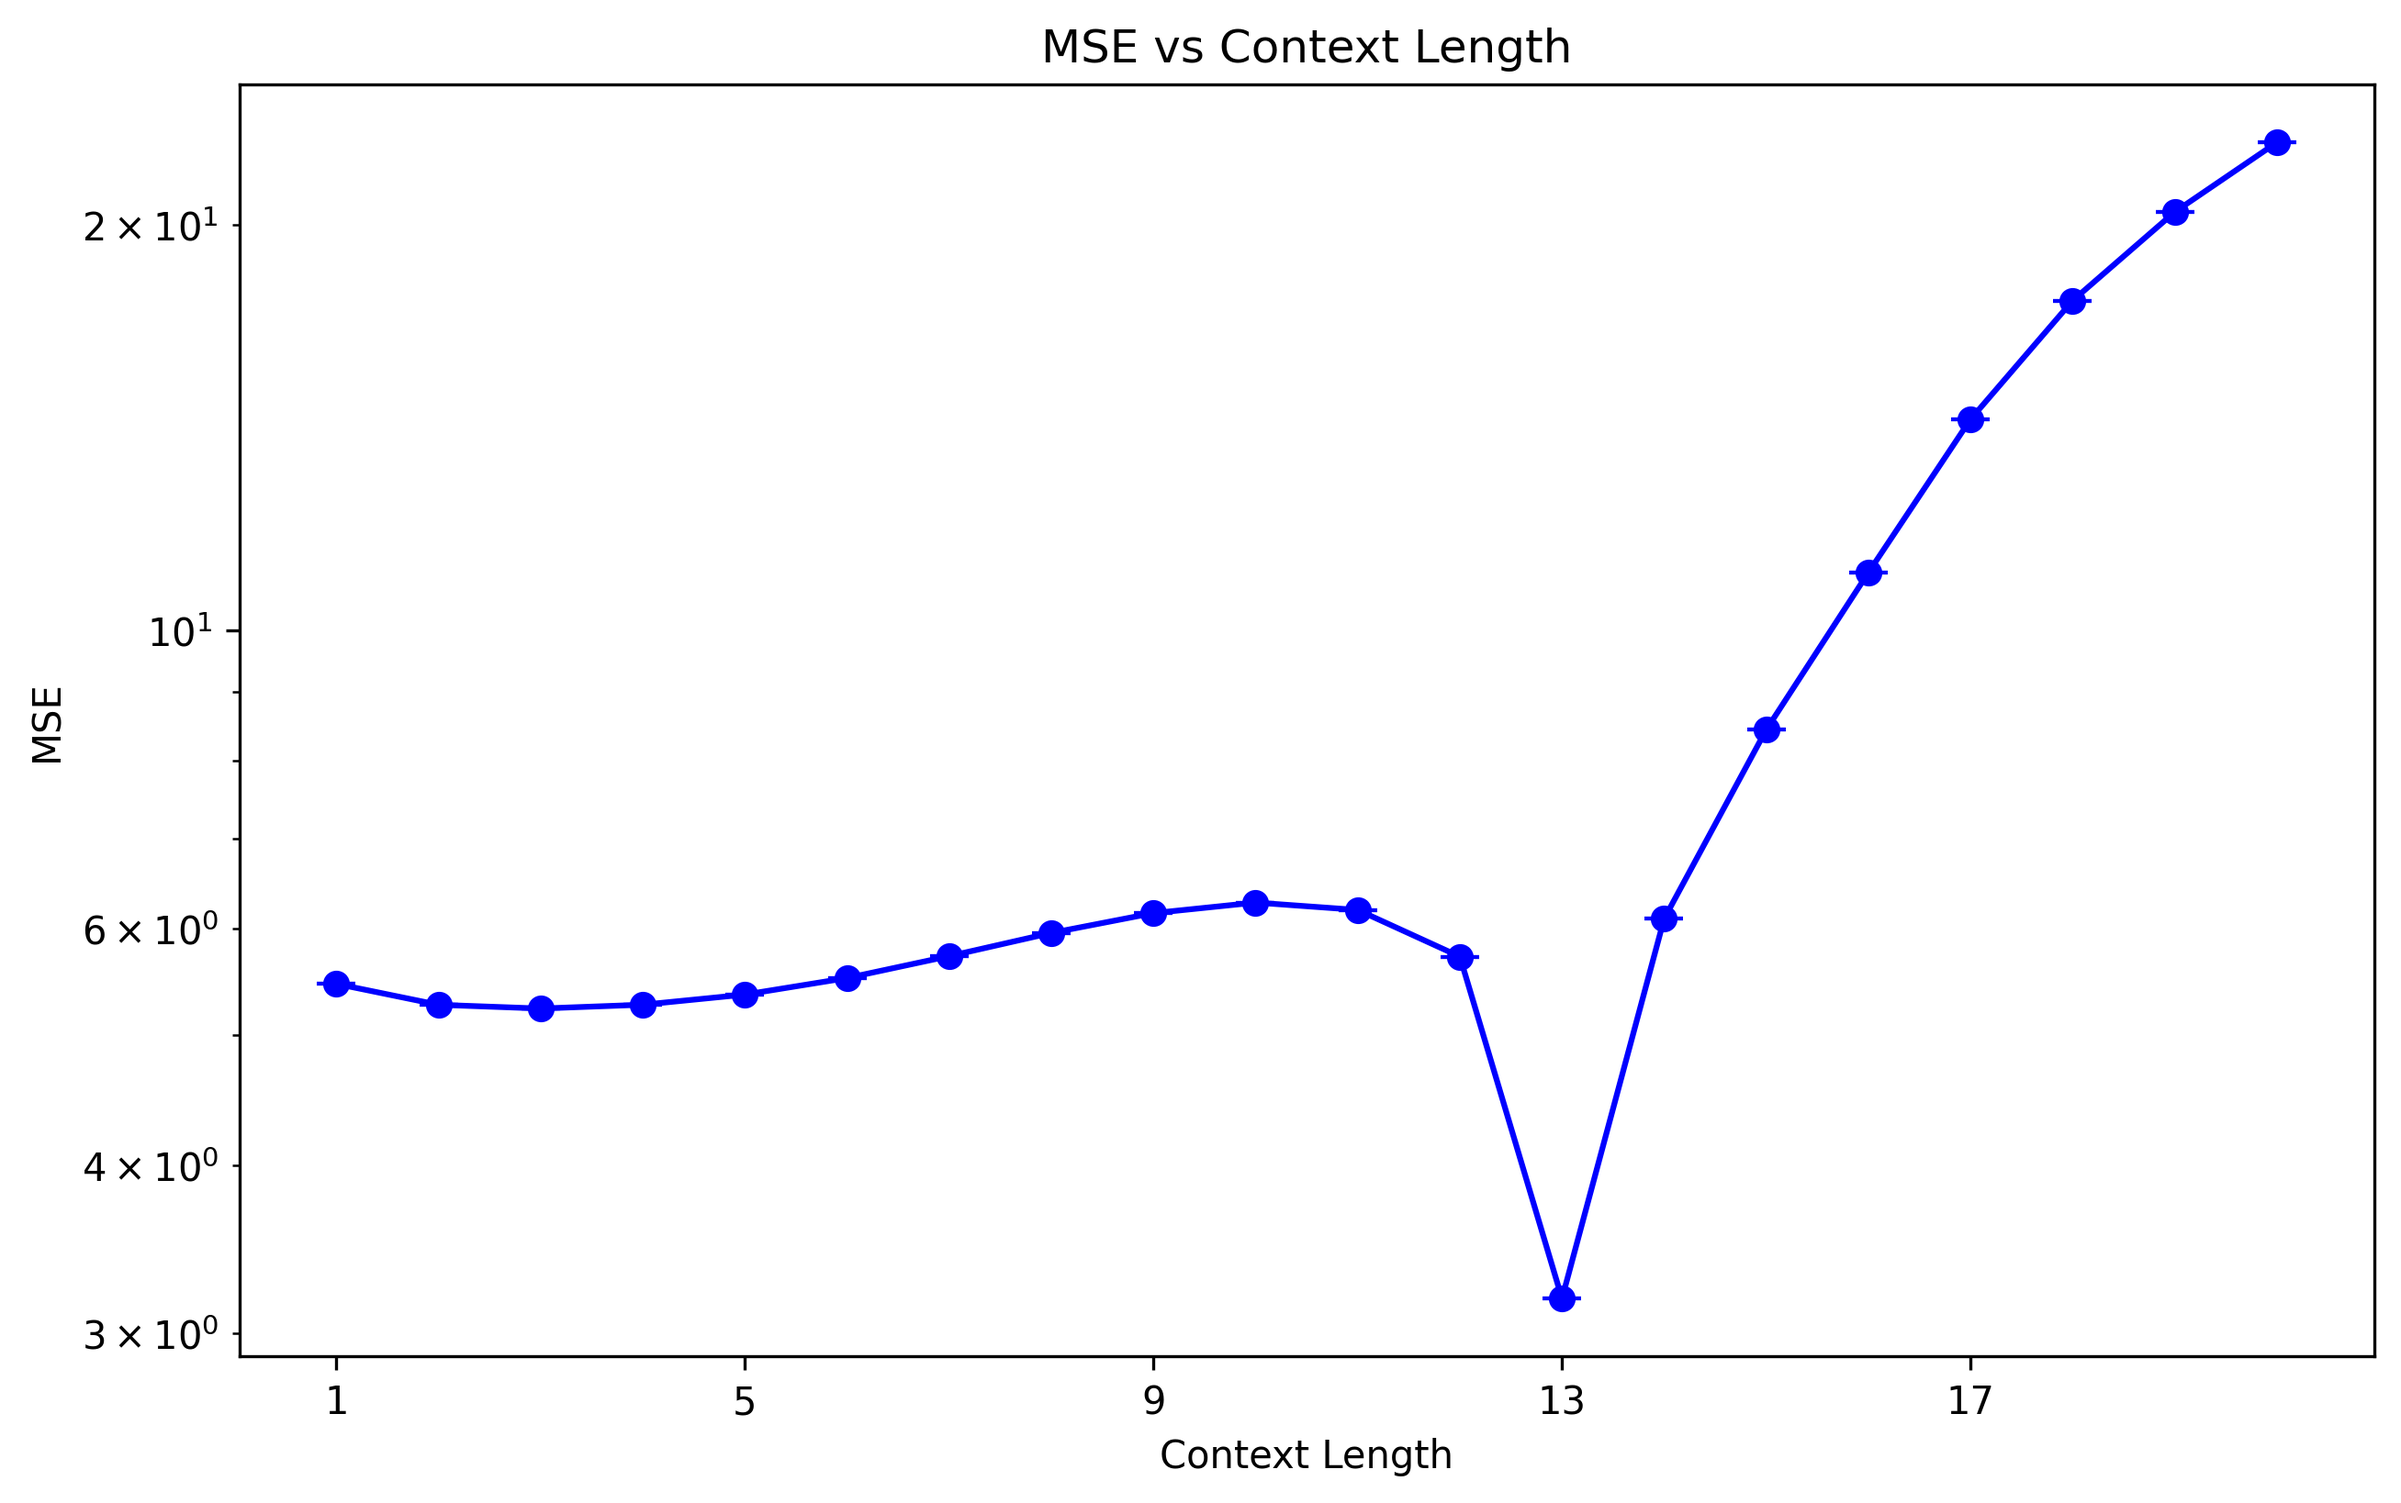
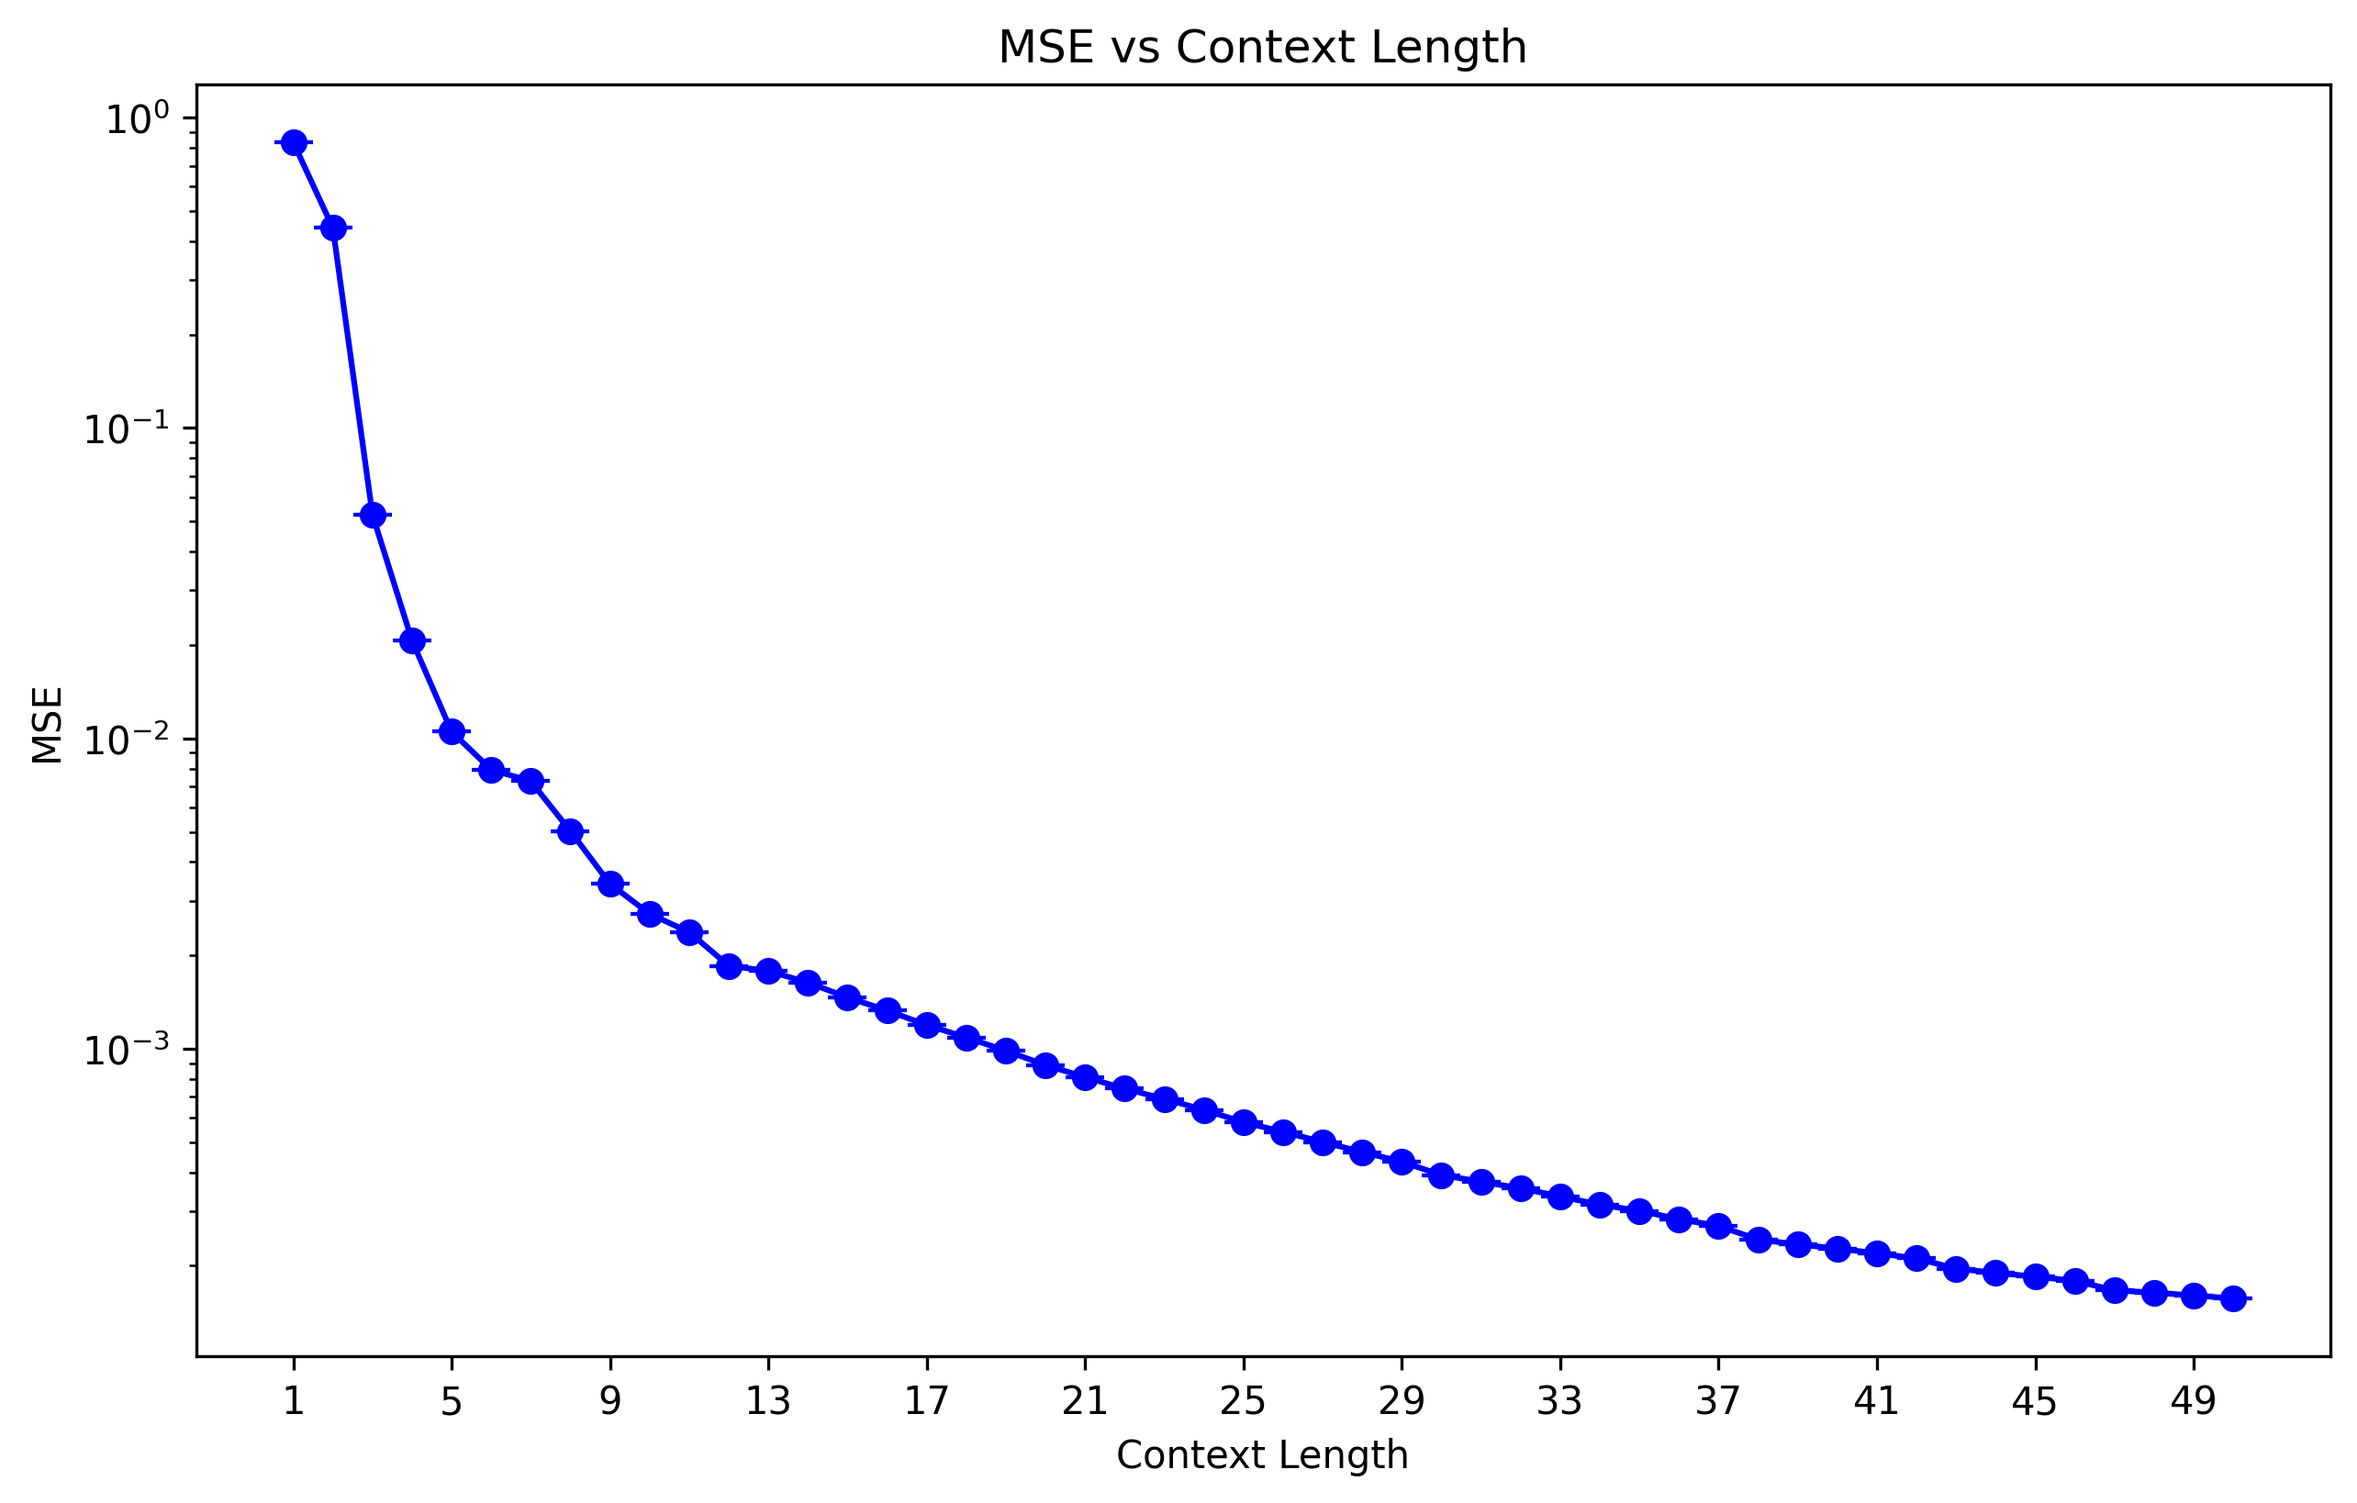
Fixed bug for data generation and tweaked loss again

diff --git a/trainSequential.py b/trainSequential.py
@@ -204,15 +204,50 @@ def train_step(model, xs, ys, optimizer, loss_func, i, args, mass, length, b=0.5
             - output (torch.Tensor): The model's predicted outputs for the input data (don't really use this for anything).
     """
     optimizer.zero_grad()
+    context = np.random.randint(0, (xs.size(1)//4))
     output = model(xs, ys)
-    loss = loss_func(output, ys)
-    lambda_coeff2 = 1e-4
-    smoothness_loss = lambda_coeff2 * torch.mean((output[:, 2:] - 2 * output[:, 1:-1] + output[:, :-2])**2) * 1e8
-    # lyapunov_loss_value = lyapunov_loss(xs, output)
-    # lyapunov_loss_value = lyapunov_loss(xs, ys, mass, length, b, g)
+    # loss = loss_func(output[:, context:], ys[:, context:])
+    alpha = 0.2
+    weights = 1 + alpha * torch.abs(ys[:, context:])
+    loss = torch.mean(weights * (output[:, context:] - ys[:, context:])**2)
+    # import pdb; pdb.set_trace()
+    # loss = loss_func(output, ys)
+    # lambda_coeff2 = 1e-4
+    # smoothness_loss = lambda_coeff2 * torch.mean((output[:, 2:] - 2 * output[:, 1:-1] + output[:, :-2])**2) * 1e8
     # lyapunov_loss_value = lyapunov_loss(xs, output, mass, length, b, g)
 
-    total_loss = loss + smoothness_loss
+    # ###### ebonye 3/17/2025
+    # optimizer.zero_grad()
+    # # context = np.random.randint(0, (xs.size(1)//4))
+    # context = torch.randint(low = 2, high = (xs.size(1)//4), size=(1,)).item()
+    # # xs_context = xs[:, :context, :]
+    # ys_context = ys[:, :context]
+    # # ys_true_after_context = ys[:, context:]
+    # # pred_controls = torch.zeros(xs.size(0), xs.size(1)-context, 1)
+    # loss = 0.0
+    # # pred_controls = torch.zeros_like(ys[:, context:])
+    # for j in range(context, xs.size(1)):
+    #     # output = model(xs_context, ys_context)[:, -1]
+    #     output = model(xs[:, :j, :], ys_context)[..., -1]
+    #     # u_pred = output[:, -1]
+    #     # x_pred = rk4_step_combined(xs_context[:, -1], u_pred, mass, length, dt=0.01, b=b, g=g)
+    #     # x_pred = xs[:, j, :]
+    #     loss += loss_func(output, ys[:, j])
+
+    #     # xs_context = torch.cat([xs_context, x_pred.unsqueeze(1)], dim=1)
+    #     ys_context = torch.cat([ys_context, output.unsqueeze(1)], dim=1)
+    #     output = output.detach()
+    #     del output
+    #     # pred_controls[:, j-context] = u_pred
+
+    # # loss = loss_func(pred_controls, ys_true_after_context)
+    # del ys_context
+
+    # loss = loss / (xs.size(1) - context)
+    #############################
+
+
+    total_loss = loss #+ smoothness_loss
     # total_loss = lyapunov_loss_value
     total_loss = total_loss.to(xs.device).requires_grad_(True)
 
@@ -635,13 +670,14 @@ def evaluate_model(model, id_data, ood_data, loss_func):
             # print(f"ys: {ys.size()}")
             xs = xs.cuda(3)
             ys = ys.cuda(3)
+            context = torch.randint(low = 2, high = (xs.size(1)//4), size=(1,)).item()
 
             output = model(xs, ys)
 
-
-            loss = loss_func(output, ys)
-            smoothness_loss = lambda_coeff2 * torch.mean((output[:, 2:] - 2 * output[:, 1:-1] + output[:, :-2])**2) * 1e8
-            loss = loss + smoothness_loss
+            loss = loss_func(output[:, context:], ys[:, context:])
+            # loss = loss_func(output, ys)
+            # # smoothness_loss = lambda_coeff2 * torch.mean((output[:, 2:] - 2 * output[:, 1:-1] + output[:, :-2])**2) * 1e8
+            # # loss = loss + smoothness_loss
         
             # loss = lyapunov_loss(xs, ys, masses, lengths)
             id_loss += loss.item()
@@ -655,10 +691,12 @@ def evaluate_model(model, id_data, ood_data, loss_func):
             ys = torch.squeeze(ys)
             xs = xs.cuda(3)
             ys = ys.cuda(3)
+            context = torch.randint(low = 2, high = (xs.size(1)//4), size=(1,)).item()
             output = model(xs, ys)
-            loss = loss_func(output, ys)
-            smoothness_loss = lambda_coeff2 * torch.mean((output[:, 2:] - 2 * output[:, 1:-1] + output[:, :-2])**2) * 1e8
-            loss = loss + smoothness_loss
+            loss = loss_func(output[:, context:], ys[:, context:])
+            # loss = loss_func(output, ys)
+            # # smoothness_loss = lambda_coeff2 * torch.mean((output[:, 2:] - 2 * output[:, 1:-1] + output[:, :-2])**2) * 1e8
+            # # loss = loss + smoothness_loss
             # loss = lyapunov_loss(xs, ys, masses, lengths)
             ood_loss += loss.item()
     ood_loss /= len(ood_loader)

diff --git a/generate_dataset.py b/generate_dataset.py
@@ -59,7 +59,8 @@ def get_valid_masses_and_lengths( dt=0.01, mean=3, variance=1, lowerbound=1, upp
         # seed[0] += 1
         # reseed_all(seed[0])
 
-def get_valid_masses_and_lengths_uniform( dt=0.01, masslowerbound=0.06, massupperbound=0.17, lengthlowerbound=0.2, lengthupperbound=0.55):
+# def get_valid_masses_and_lengths_uniform( dt=0.01, masslowerbound=0.06, massupperbound=0.17, lengthlowerbound=0.2, lengthupperbound=0.55):
+def get_valid_masses_and_lengths_uniform( dt=0.01, masslowerbound=0.06, massupperbound=2.06, lengthlowerbound=0.2, lengthupperbound=2.2): #### 2/24/2025 (ebonye) make wider range
     """
     Samples valid masses and lengths for a pendulum system that meet specific constraints, using a uniform distribution.
 
@@ -385,7 +386,7 @@ def make_train_data(args):
             append_to_dataset_logger(i-args.training.train_steps, masses, lengths, k_values, xs.shape, test_logger)
         else:
             # masses, lengths = get_valid_masses_and_lengths_uniform(masslowerbound=0.2, massupperbound=0.3, lengthlowerbound=0.6, lengthupperbound=0.85) ## 3/5/2025 out of distribution data
-            masses, lengths = get_valid_masses_and_lengths_uniform(masslowerbound=2.06, massupperbound=3.06, lengthlowerbound=2.2, lengthupperbound=3.2) ## 3/5/2025 out of distribution data
+            masses, lengths = get_valid_masses_and_lengths_uniform(masslowerbound=2.07, massupperbound=3.07, lengthlowerbound=2.3, lengthupperbound=3.3) ## 3/5/2025 out of distribution data
             # sampler = PendulumSampler(n_dims=2)
             # X0 = generate_random_X0(theta_range=(-np.pi, np.pi), thetadot_range=(-3, 3))
             # sampler = PendulumSampler(n_dims=2, init_conditions=X0)

diff --git a/plotting_new.py b/plotting_new.py
@@ -119,8 +119,8 @@ def load_data(data_path):
         data = pickle.load(f)
     return data
 
-model_run_id = "38bf57f0-0a4a-48ed-a423-ea4a38971179" #"9bb50653-5ed4-49c1-8dae-a876b2677236" #"3c33d621-e18a-4c4b-9844-54915b1de7b1"
-data_path = f'inference_run/mse_control_97750_{model_run_id}/results_maxcontext20_numpends1_ood.pkl'
+model_run_id = "11cdf7d5-d01d-4333-85ae-bf5a7465af9e"#"38bf57f0-0a4a-48ed-a423-ea4a38971179" #"9bb50653-5ed4-49c1-8dae-a876b2677236" #"3c33d621-e18a-4c4b-9844-54915b1de7b1"
+data_path = f'inference_run/mse_control_48000_{model_run_id}/results_maxcontext50_numpends1_indistr.pkl'
 X0s_stored, masses, lengths, phase_data, controls_data, data_and_controls, pends = load_data(data_path)
 # print(f'masses: {masses}')
 # print(f'lengths: {lengths}')
@@ -154,9 +154,9 @@ for context in phase_data.keys():
     plt.plot(phase_data[context][pendulum_index][:,0], phase_data[context][pendulum_index][:,1], label=f'Context: {context}', marker = 'o')
     # theta_dmd, thetadot_dmd = dynamic_mode_decomposition(phase_data[context][pendulum_index], X0s_stored[pendulum_index], total_time, dt, context)
     # plt.plot(theta_dmd, thetadot_dmd, label=f'DMD: Context {context}', marker = 'o')
-    if context == 6:
+    if context == 40:
         print(controls_data[context][pendulum_index])
-        print("------------------------------------------------")
+        print("------------------------------------------------------------------")
         print(control_values_rk4)
 
 plt.xlabel('Theta')

diff --git a/plotting.py b/plotting.py
@@ -188,14 +188,14 @@ start_index = 5
 data_path = f'inference_run/onepend_mse_sameinitcond6_125000/results_maxcontext{start_index}.pkl'
 
 
-X0, masses, lengths, theta_result_model, thetadot_result_model = load_data(data_path) ## one pend test model
+# X0, masses, lengths, theta_result_model, thetadot_result_model = load_data(data_path) ## one pend test model
 # masses, lengths, theta_result_model, thetadot_result_model = load_data(data_path) ## one pend test model
 
 # masses = [generate_dataset.sample_mass_uniform() for _ in range(Num_of_pendulums)] ## multipend no test model
 # lengths = [generate_dataset.sample_length_uniform() for _ in range(Num_of_pendulums)] ## multipend no test model
 
-theta_model_context = theta_result_model[context-1]  ## one pend test model
-thetadot_model_context = thetadot_result_model[context-1] ## one pend test model
+# theta_model_context = theta_result_model[context-1]  ## one pend test model
+# thetadot_model_context = thetadot_result_model[context-1] ## one pend test model
 
 
 thetas_rk4 = np.zeros((Num_of_pendulums, steps + 1))
@@ -204,6 +204,10 @@ thetas_dmd = np.zeros((Num_of_pendulums, steps + 1))
 thetadots_dmd = np.zeros((Num_of_pendulums, steps + 1))
 
 i = 0
+X0 = [np.pi, 3]
+masses = [2.2]
+lengths = [1.5]
+
 
 
 for mass, length in tqdm(zip(masses, lengths), desc="MultiPendulum", total=len(masses), leave=False):

diff --git a/test12_mse_y_axis.py b/test12_mse_y_axis.py
@@ -25,9 +25,9 @@ save_results = "trainsteps_test_mse_control.txt"
 save_phase_plot = "trainsteps_test_mse_control.txt"
 log_info = "trainsteps_log_mse_control.txt"
 model_name= "test"
-model_run_id= "38bf57f0-0a4a-48ed-a423-ea4a38971179" #"9bb50653-5ed4-49c1-8dae-a876b2677236" #"3c33d621-e18a-4c4b-9844-54915b1de7b1"
-model_checkpoint_step= 97750
-model_checkpoint_epoch = 125
+model_run_id= "11cdf7d5-d01d-4333-85ae-bf5a7465af9e" #"38bf57f0-0a4a-48ed-a423-ea4a38971179" #"9bb50653-5ed4-49c1-8dae-a876b2677236" #"3c33d621-e18a-4c4b-9844-54915b1de7b1"
+model_checkpoint_step= 48000 #97750
+model_checkpoint_epoch = 62 #125
 folder_name = f"inference_run/{plot_label}_{model_checkpoint_step}_{model_run_id}"
 mode = 'ood' # 'train', 'ood', 'indistr'
 
@@ -35,7 +35,7 @@ mode = 'ood' # 'train', 'ood', 'indistr'
 
 total_time = 5 #1.5
 dt = 0.01
-Num_of_context = 20
+Num_of_context = 50
 Num_of_pendulums = 1 #20 #40 #10
 
 
@@ -536,7 +536,7 @@ def main():
     # lengths = [lengths]
 
     ####################
-    device = torch.device("cuda:3" if torch.cuda.is_available() else "cpu")
+    device = torch.device("cuda:2" if torch.cuda.is_available() else "cpu")
     pends = np.random.randint(0, 5000, size=Num_of_pendulums)
     # pends = [1050] 
     masses = []
